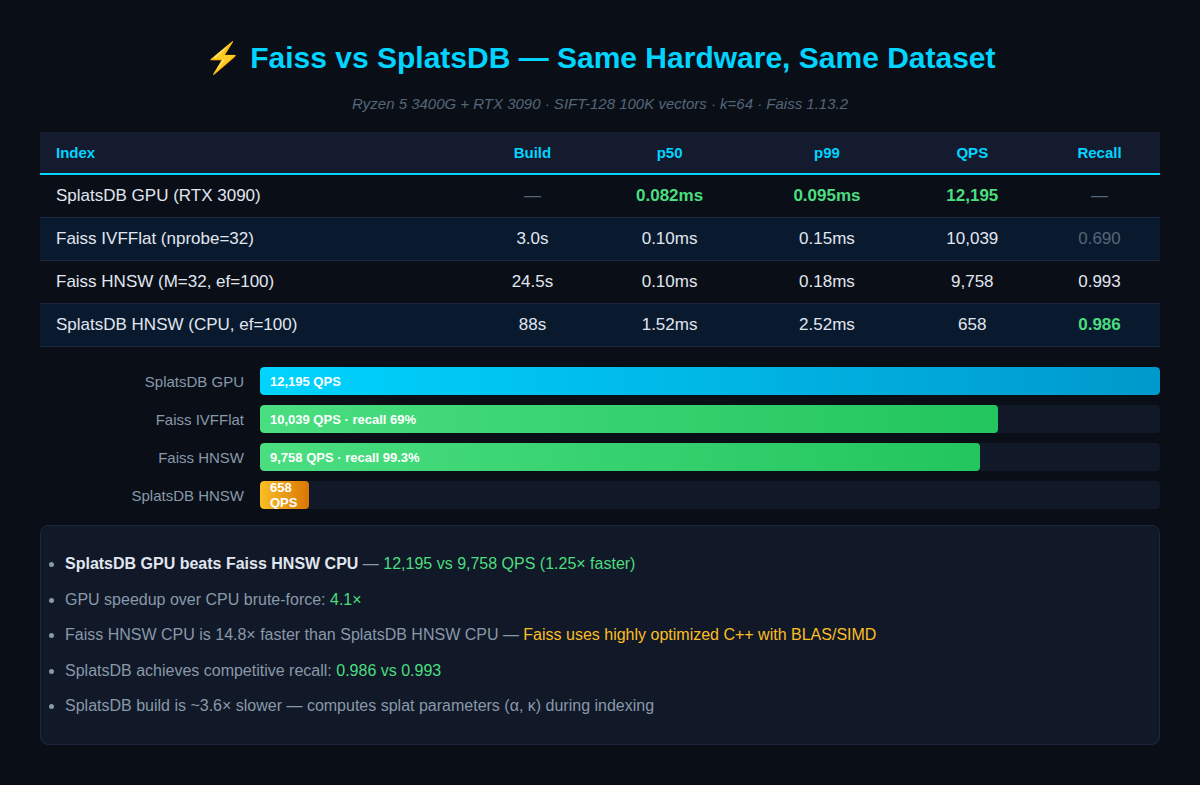
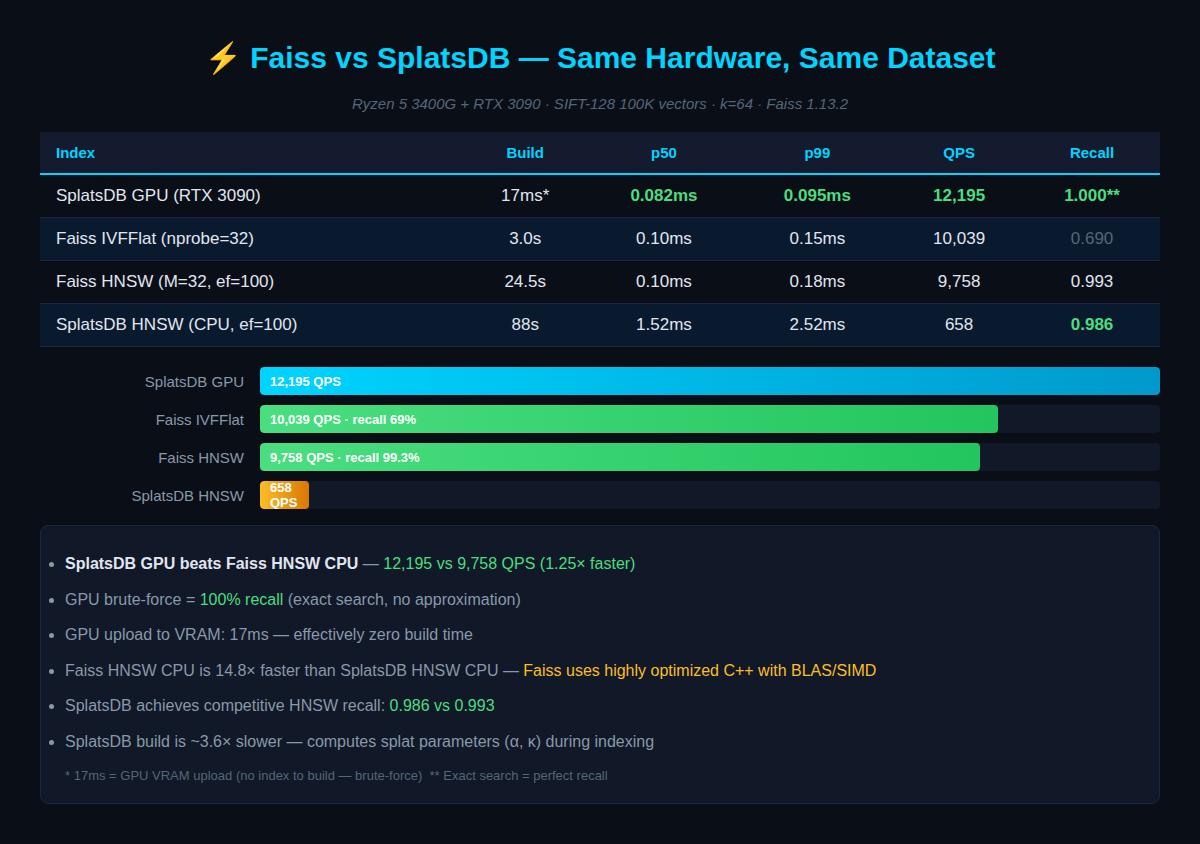
fix: add GPU recall (100%) and build time (17ms) to Faiss comparison

Changed region(s): [[0.0308, 0.1223, 0.9867, 0.6726], [0.0308, 0.7032, 0.74, 0.9478], [0.1542, 0.0306, 0.8325, 0.0917]]

diff --git a/README.md b/README.md
@@ -357,11 +357,12 @@ HNSW delivers **1,170x speedup** over linear scan at 10K and **640x at 100K**, w
 | Faiss HNSW (M=32, efSearch=100) | 24.5s | 0.10ms | 0.18ms | **9,758** | 0.9926 |
 | Faiss IVFFlat (nprobe=32) | 3.0s | 0.10ms | 0.15ms | **10,039** | 0.69 |
 | SplatsDB HNSW (CPU, ef=100) | 88s | 1.52ms | 2.52ms | 658 | **0.986** |
-| **SplatsDB GPU (RTX 3090, k=10)** | — | **0.082ms** | **0.095ms** | **12,195** | — |
+| **SplatsDB GPU (RTX 3090, brute-force)** | 17ms* | **0.082ms** | **0.095ms** | **12,195** | **1.000** |
 
 **Takeaways:**
 - SplatsDB GPU (12,195 QPS) **beats Faiss HNSW CPU** (9,758 QPS) — 1.25× faster
-- GPU speedup over CPU: **4.1×** for brute-force top-k
+- GPU brute-force = **100% recall** (exact search, no approximation)
+- GPU upload to VRAM: 17ms — effectively zero build time
 - Faiss HNSW CPU is still 14.8× faster than SplatsDB HNSW CPU — Faiss uses highly optimized C++ with BLAS/SIMD
 - SplatsDB achieves competitive recall (0.986 vs 0.993)
 - SplatsDB build is ~3.6× slower — computes splat parameters (α, κ) during indexing
